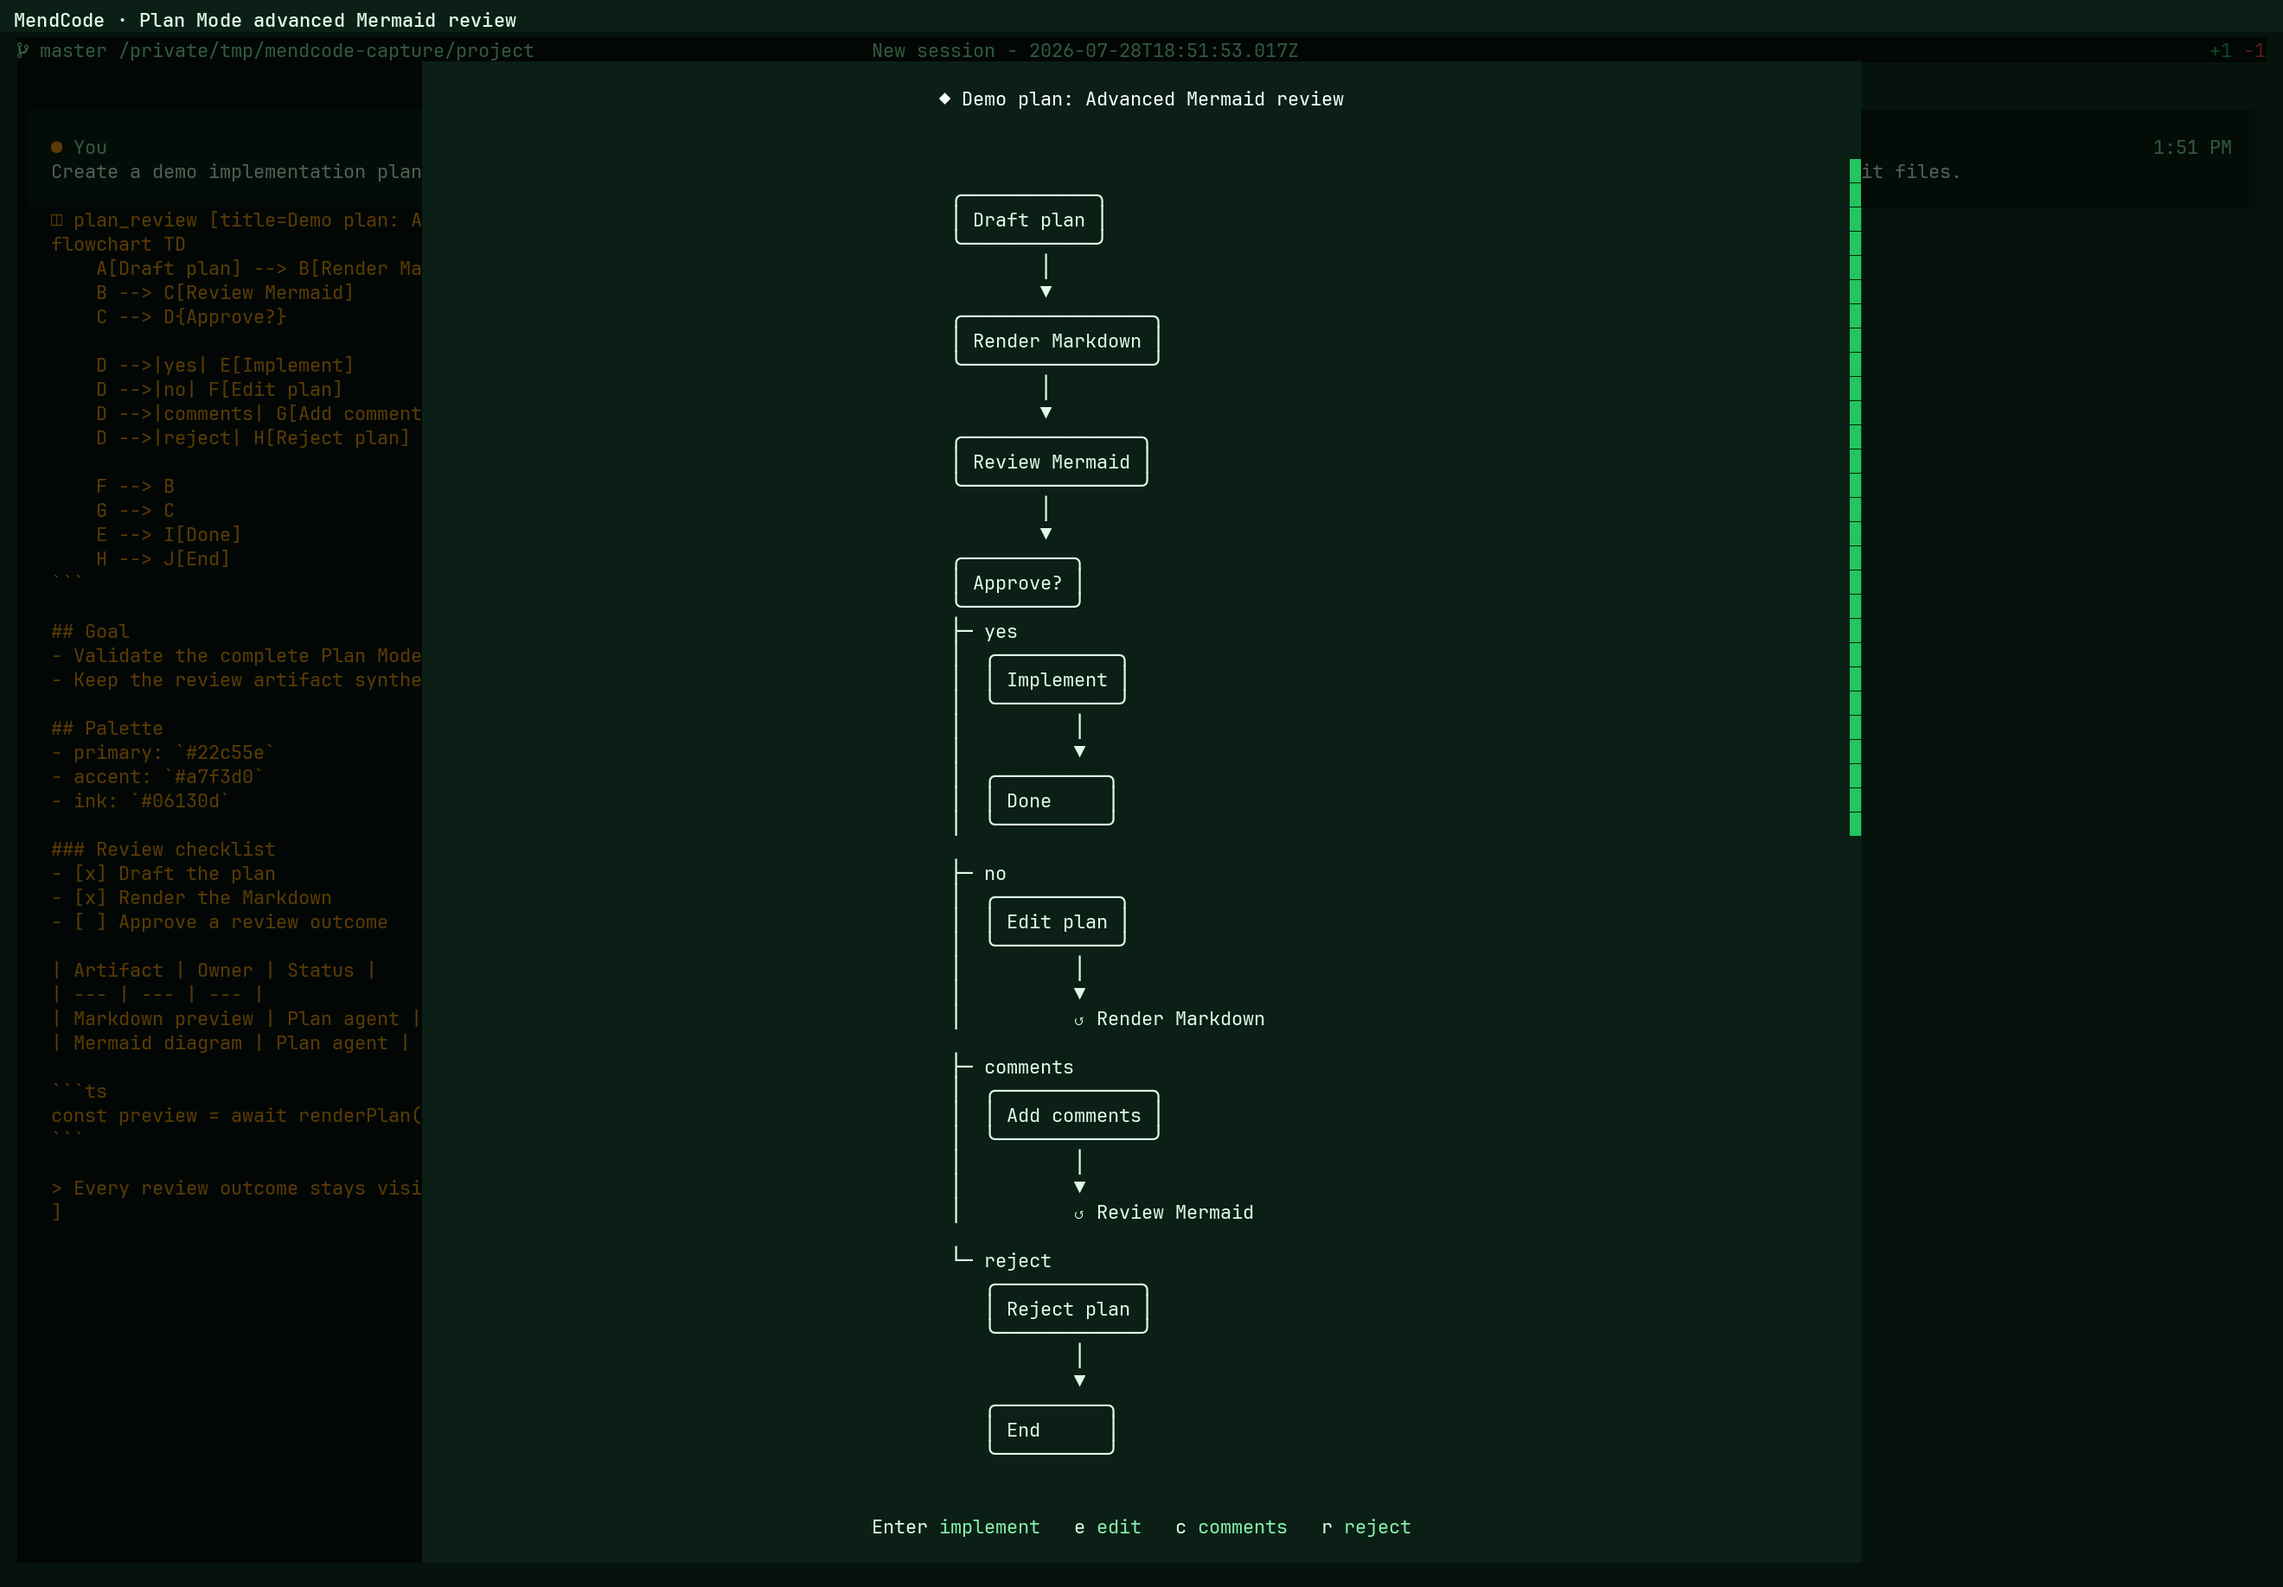
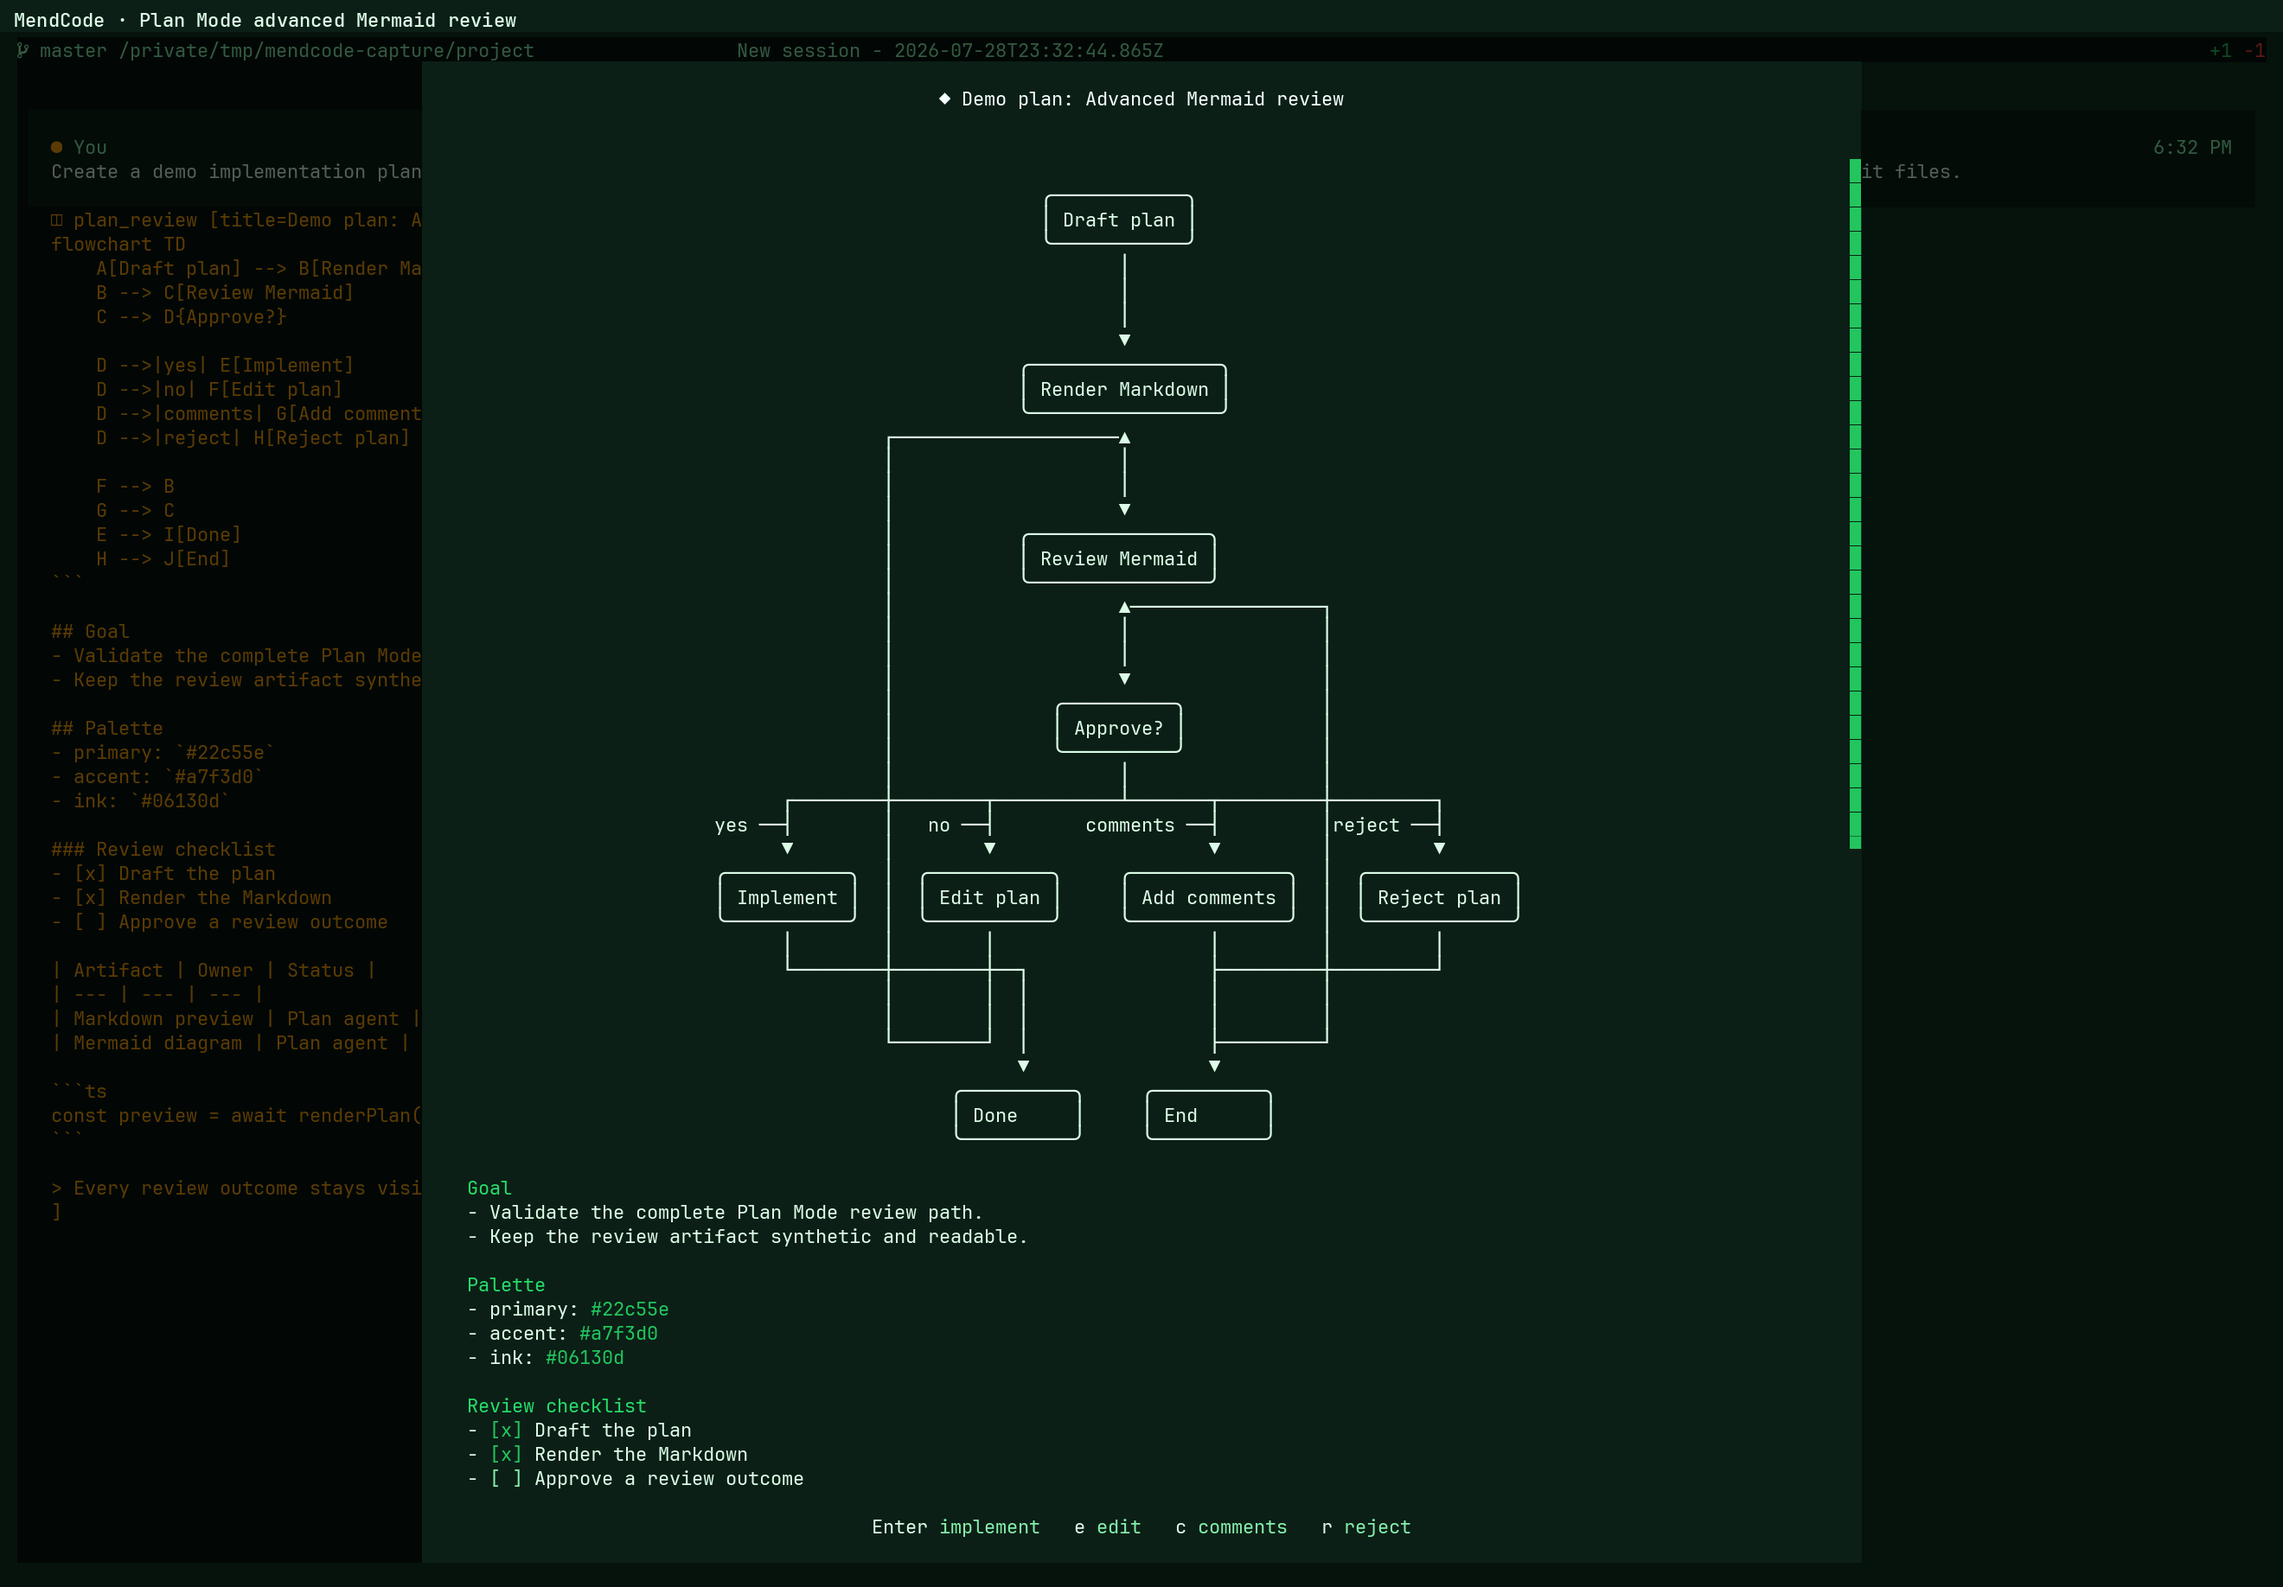
docs: refresh main README screenshots
Publish the validated README screenshots and remove the Star History section from main.

diff --git a/README.md b/README.md
@@ -37,7 +37,6 @@ cancellation.
 - [Documentation Map](#documentation-map)
 - [Development](#development)
 - [Community And Security](#community-and-security)
-- [Star History](#star-history)
 - [For Agents](#for-agents)
 - [Lineage](#lineage)
 
@@ -298,7 +297,13 @@ mendcode marketplace enable acme-standard
 Plan Mode is for users who want the agent to think first without silently
 editing files.
 
-![MendCode Plan Mode review modal](docs/assets/screenshots/plan-review-modal.png)
+<p align="center">
+  <img src="docs/assets/screenshots/plan-review-modal.png" alt="MendCode Plan Mode review modal" width="980">
+</p>
+
+<p align="center">
+  <img src="docs/assets/screenshots/markdown-preview-showcase.png" alt="MendCode Markdown preview rendering" width="980">
+</p>
 
 ![MendCode Markdown preview rendering](docs/assets/screenshots/markdown-preview-showcase.png)
 
@@ -456,16 +461,6 @@ normal test entrypoint; run focused tests from the package that owns the change.
 - [Community docs](docs/community.md): issues, discussions, labels, and contribution guidance.
 - [Release process](docs/releasing.md): release assets, checksums, installer smoke tests, and public promotion.
 - [Supply chain security](docs/supply-chain-security.md): provenance, dependency review, scanners, and release hardening.
-
-## Star History
-
-<a href="https://www.star-history.com/#MendCode/MendCode&Date">
-  <picture>
-    <source media="(prefers-color-scheme: dark)" srcset="https://api.star-history.com/chart?repos=MendCode/MendCode&type=date&theme=dark&legend=top-left">
-    <source media="(prefers-color-scheme: light)" srcset="https://api.star-history.com/chart?repos=MendCode/MendCode&type=date&legend=top-left">
-    <img alt="MendCode Star History Chart" src="https://api.star-history.com/chart?repos=MendCode/MendCode&type=date&legend=top-left">
-  </picture>
-</a>
 
 ## For Agents
 
